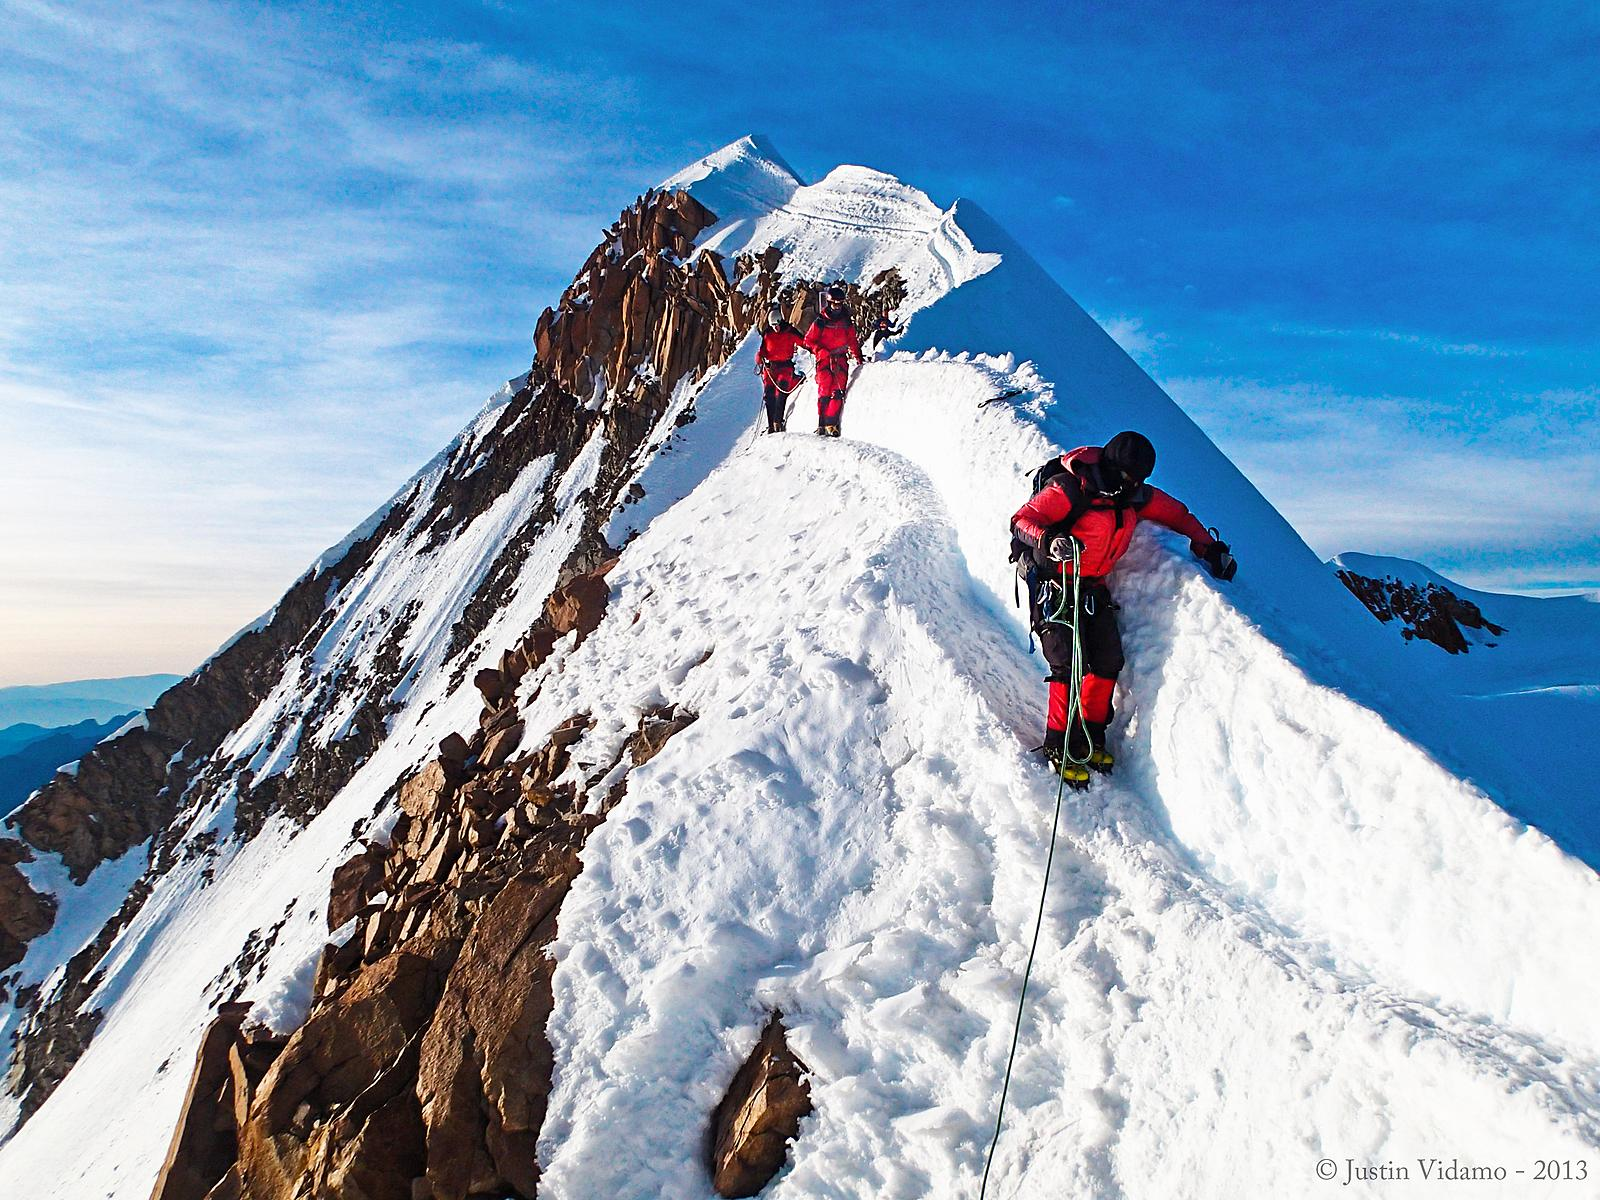
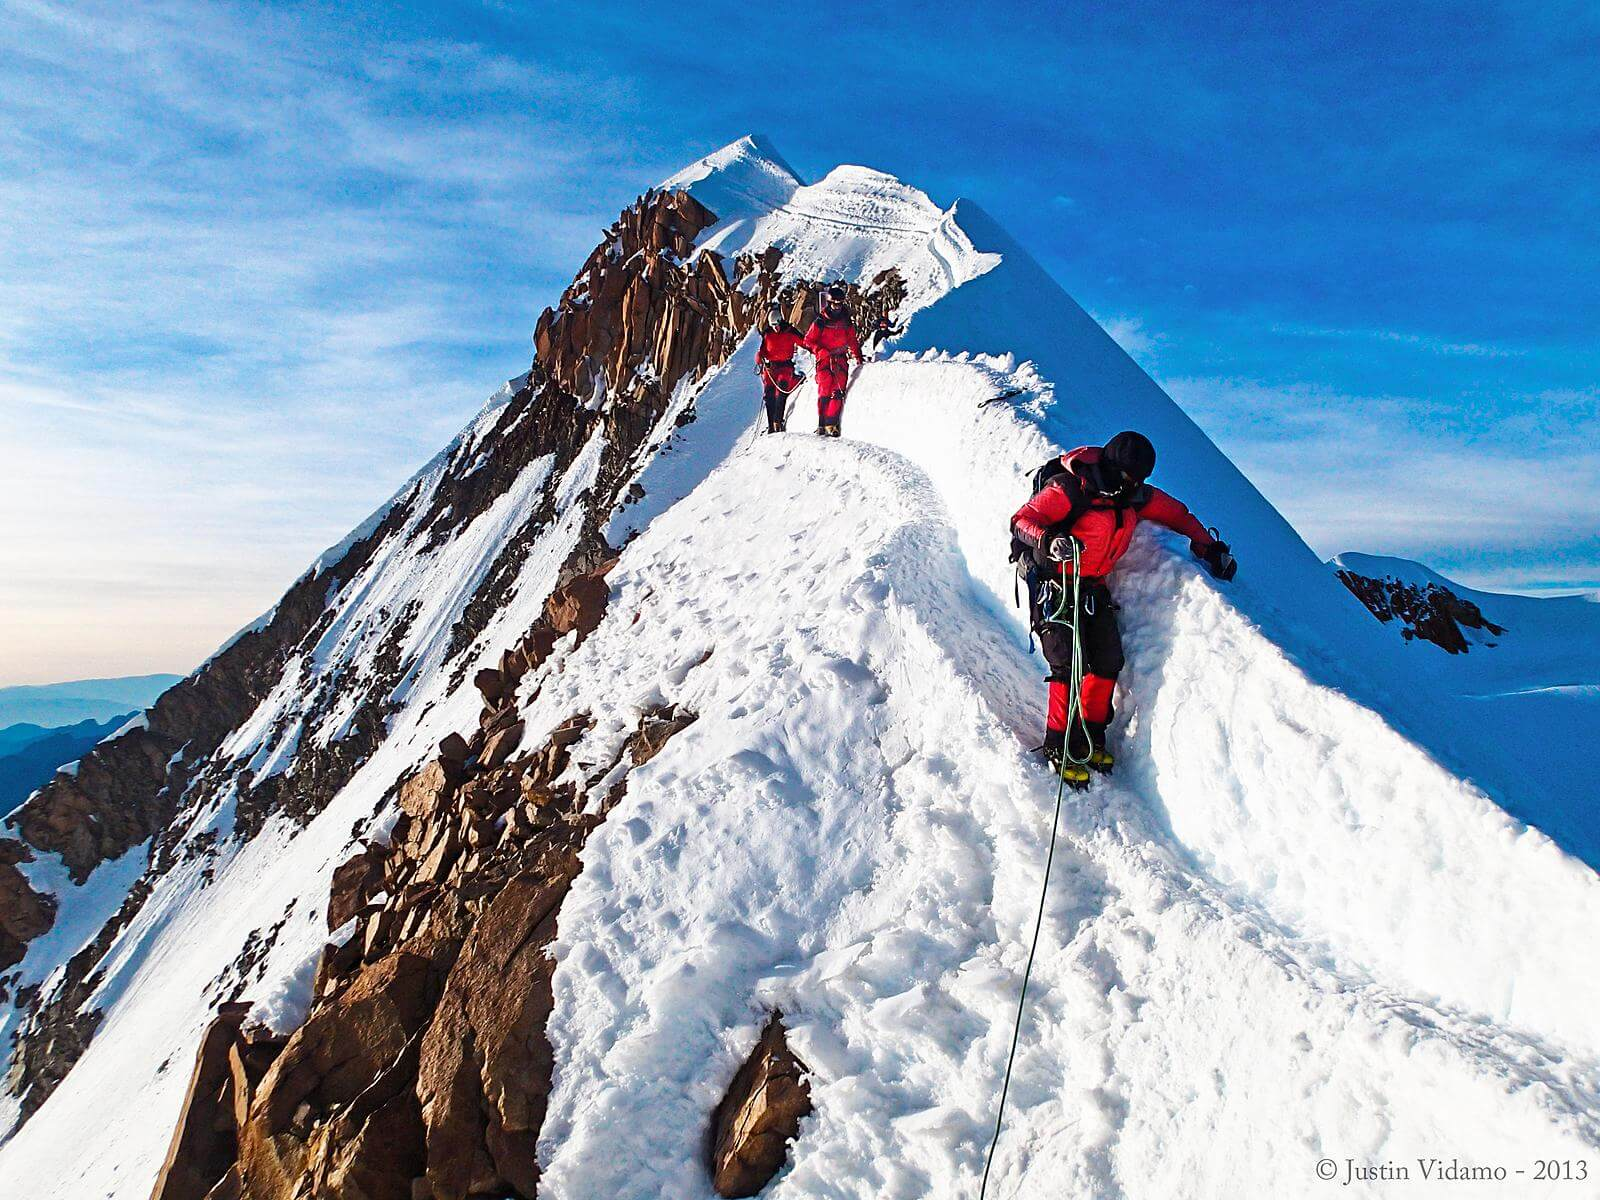
commpress the quilty of the images

diff --git a/css/style.css b/css/style.css
@@ -61,7 +61,7 @@ nav .links ul {
   padding: 0;
   top: calc(100% + 22px);
   right: -30px;
-  background-color: var(--secondry-color);
+  background-image: linear-gradient(#03070a, #041622);
   min-width: 120px;
   display: none;
   z-index: 9999;
@@ -101,7 +101,6 @@ nav .links ul li:not(:last-child) {
   position: absolute;
   top: 30%;
   left: 50%;
-  width: 500px;
   text-align: center;
   transform: translate(-50%, -50%);
 }
@@ -123,8 +122,8 @@ nav .links ul li:not(:last-child) {
   line-height: 1.7;
   font-weight: 300;
   color: #ccc;
-  width: 350px;
   margin: auto;
+  width: 300px;
 }
 @media only screen and (max-width: 767px) {
   .banner {
@@ -179,7 +178,7 @@ header {
 .services .services-content {
   display: grid;
   grid-template-columns: repeat(auto-fill, minmax(400px, 2fr));
-  margin-top: 100px;
+  margin-top: 40px;
   gap: 50px;
   color: #fff;
 }
@@ -203,7 +202,7 @@ header {
 }
 
 .services .services-content .srv h3 {
-  margin: 0 0 20px;
+  margin: 0 0 10px;
   color: var(--min-color-heading);
 }
 
@@ -436,6 +435,7 @@ img {
   padding: 10px 0;
   text-align: center;
   color: #c9c3c3;
+  padding: 10px 0;
   border-top: var(--border-color) solid 1px;
 }
 
@@ -447,30 +447,30 @@ img {
 :root {
   --minColor: #eee;
   --minBackground-color: rgb(0, 0, 0);
-  --minPadding: 40px;
+  --minPadding: 60px;
   --secondry-color: #eeeeee88;
   --min-color-heading: #eee;
   --icon-color: rgb(255, 69, 193);
   --border-color: hsla(0, 1%, 26%, 0.404);
   --des-color: #797f91;
-  --min-background: linear-gradient(
+  --min-background:
     to bottom,
-    #051723,#d40808 #2F364C);
+    linear-gradient(#03070a, #041622);
   --min-background-image: linear-gradient(#f08192, #2c38a3);
 }
 
 :root {
   --minColor: #eee;
   --minBackground-color: rgb(0, 0, 0);
-  --minPadding: 40px;
+  --minPadding: 60px;
   --secondry-color: #eeeeee88;
   --min-color-heading: #eee;
   --icon-color: rgb(255, 69, 193);
   --border-color: hsla(0, 1%, 26%, 0.404);
   --des-color: #797f91;
-  --min-background: linear-gradient(
+  --min-background:
     to bottom,
-    #051723,#d40808 #2F364C);
+    linear-gradient(#03070a, #041622);
   --min-background-image: linear-gradient(#f08192, #2c38a3);
 }
 
@@ -486,6 +486,12 @@ body {
   background-image: linear-gradient(#03070a, #041622);
 }
 
+@media (max-width: 767px) {
+  section {
+    padding-top: 30px;
+    padding-bottom: 30px;
+  }
+}
 .section-heading {
   font-size: 80px;
   font-weight: bold;
@@ -534,6 +540,14 @@ body {
 ::selection {
   color: var(--minBackground-color);
   background-color: var(--minColor);
+}
+
+* {
+  margin: 0;
+  padding: 0;
+  -webkit-box-sizing: border-box;
+  -moz-box-sizing: border-box;
+  box-sizing: border-box;
 }
 
 /*# sourceMappingURL=style.css.map */

diff --git a/index.html b/index.html
@@ -78,7 +78,7 @@
     <!-- end feature -->
 
     <!-- start services -->
-    <div class="services" id="services">
+    <section class="services" id="services">
       <div class="container">
         <h2 class="section-heading">Services</h2>
         <p>dont be busy productive</p>
@@ -113,11 +113,11 @@
             </div>
         </div>
       </div>
-    </div>
+    </section>
     <!-- end services -->
 
     <!-- start about -->
-    <div class="about" id="about">
+    <section class="about" id="about">
       <div class="container">
         <h2 class="section-heading">About</h2>
         <p>Certainly! Here are two paragraphs to include an</p>
@@ -130,10 +130,10 @@
         </div>
       </div>
     </div>
-    </div>
+    </section>
     <!-- end about -->
     <!-- start photoes  -->
-    <div class="photos">
+    <section class="photos">
       <div class="container">
         <h2 class="section-heading">photos</h2>
           <p>Capture the Climb</p>
@@ -161,10 +161,10 @@
             </div>
           </div>
       </div>
-    </div>
+    </section>
   <!-- end photos  -->
   <!-- start contact -->
-<div class="contact">
+<section class="contact">
   <div class="container">
     <h2 class="section-heading" id="contact">contact</h2>
       <p>we are born creat</p>
@@ -180,10 +180,10 @@
         </div>
       </div>
   </div>
-</div>
+</section>
   <!-- end contact -->
   <!-- start footer -->
-  <div class="footer">&copy;2023 <span>Sabri</span> all right resereverd</div>
+  <footer class="footer">&copy;2023 <span>Sabri</span> all right resereverd</div>
 <!-- end footer -->
 
     <!-- 

diff --git a/scss/baze/variables.scss b/scss/baze/variables.scss
@@ -1,14 +1,14 @@
 :root {
     --minColor: #eee;
     --minBackground-color: rgb(0, 0, 0);
-    --minPadding: 40px;
+    --minPadding: 60px;
     --secondry-color: #eeeeee88;
     --min-color-heading: #eee;
     --icon-color: rgb(255, 69, 193);
     --border-color: hsla(0, 1%, 26%, 0.404);
     --des-color: #797f91;
-    --min-background: linear-gradient(
+    --min-background:
       to bottom,
-      #051723,#d40808 #2F364C);
+      linear-gradient(#03070a, #041622);
       --min-background-image: linear-gradient(#f08192, #2c38a3);
   }

diff --git a/scss/component/services.scss b/scss/component/services.scss
@@ -6,7 +6,7 @@
   .services .services-content {
     display: grid;
     grid-template-columns: repeat(auto-fill, minmax(400px, 2fr));
-    margin-top: 100px;
+    margin-top: 40px;
     gap: 50px;
     color: #fff;
   }
@@ -26,7 +26,7 @@
     flex-basis: 60px;
   }
   .services .services-content .srv h3 {
-    margin: 0 0 20px;
+    margin: 0 0 10px;
     color: var(--min-color-heading);
   }
   .services .services-content .srv p {

diff --git a/scss/component/banner.scss b/scss/component/banner.scss
@@ -2,7 +2,6 @@
     position: absolute;
     top: 30%;
     left: 50%;
-    width: 500px;
     text-align: center;
     transform: translate(-50%, -50%);
 
@@ -23,8 +22,8 @@
         line-height: 1.7;
         font-weight: 300;
         color: #ccc;
-        width: 350px;
         margin: auto;
+        width: 300px;
       }
       
       @media only screen and (max-width: 767px) {

diff --git a/scss/globle.scss b/scss/globle.scss
@@ -8,6 +8,13 @@ body {
   font-family: "Work Sans", sans-serif;
   background-image: linear-gradient(#03070a, #041622);
 }
+@media (max-width: 767px) {
+  section {
+  padding-top: 30px;
+  padding-bottom: 30px;
+
+  }
+}
 .section-heading {
   font-size: 80px;
   font-weight: bold;

diff --git a/scss/component/navbar.scss b/scss/component/navbar.scss
@@ -52,7 +52,8 @@ nav {
     padding: 0;
     top: calc(100% + 22px);
     right: -30px;
-    background-color: var(--secondry-color);
+  background-image: linear-gradient(#03070a, #041622);
+
     min-width: 120px;
     display: none;
     z-index: 9999;

diff --git a/scss/baze/reset.scss b/scss/baze/reset.scss
@@ -2,3 +2,11 @@
     color: var(--minBackground-color);
     background-color: var(--minColor);
   }
+  * {
+    margin: 0;
+    padding:0;
+    -webkit-box-sizing: border-box;
+    -moz-box-sizing: border-box;
+    box-sizing: border-box;
+
+  }

diff --git a/scss/component/footer.scss b/scss/component/footer.scss
@@ -5,6 +5,7 @@
     padding: 10px 0;
     text-align: center;
     color: #c9c3c3;
+    padding: 10px 0;
     border-top: var(--border-color) solid 1px;
   }
   .footer span {
